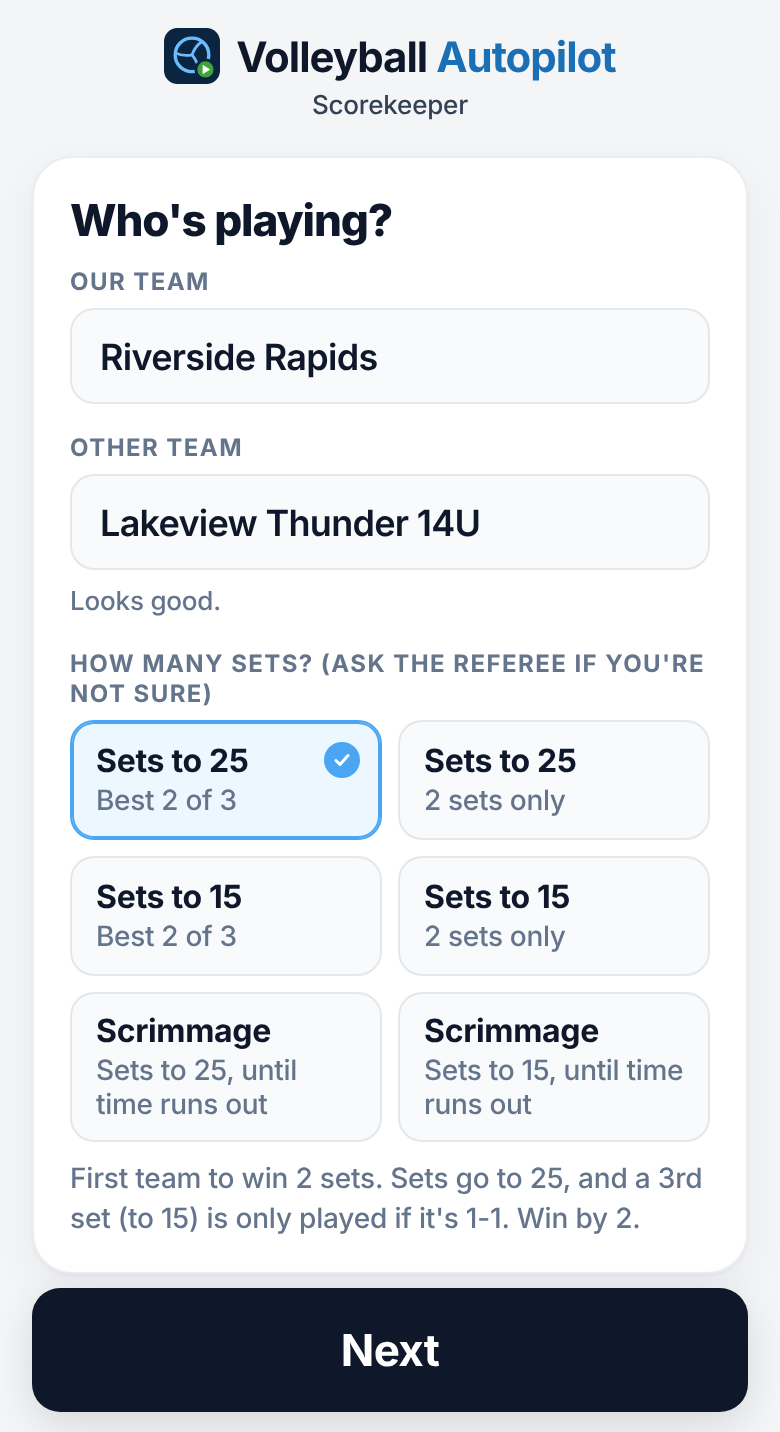
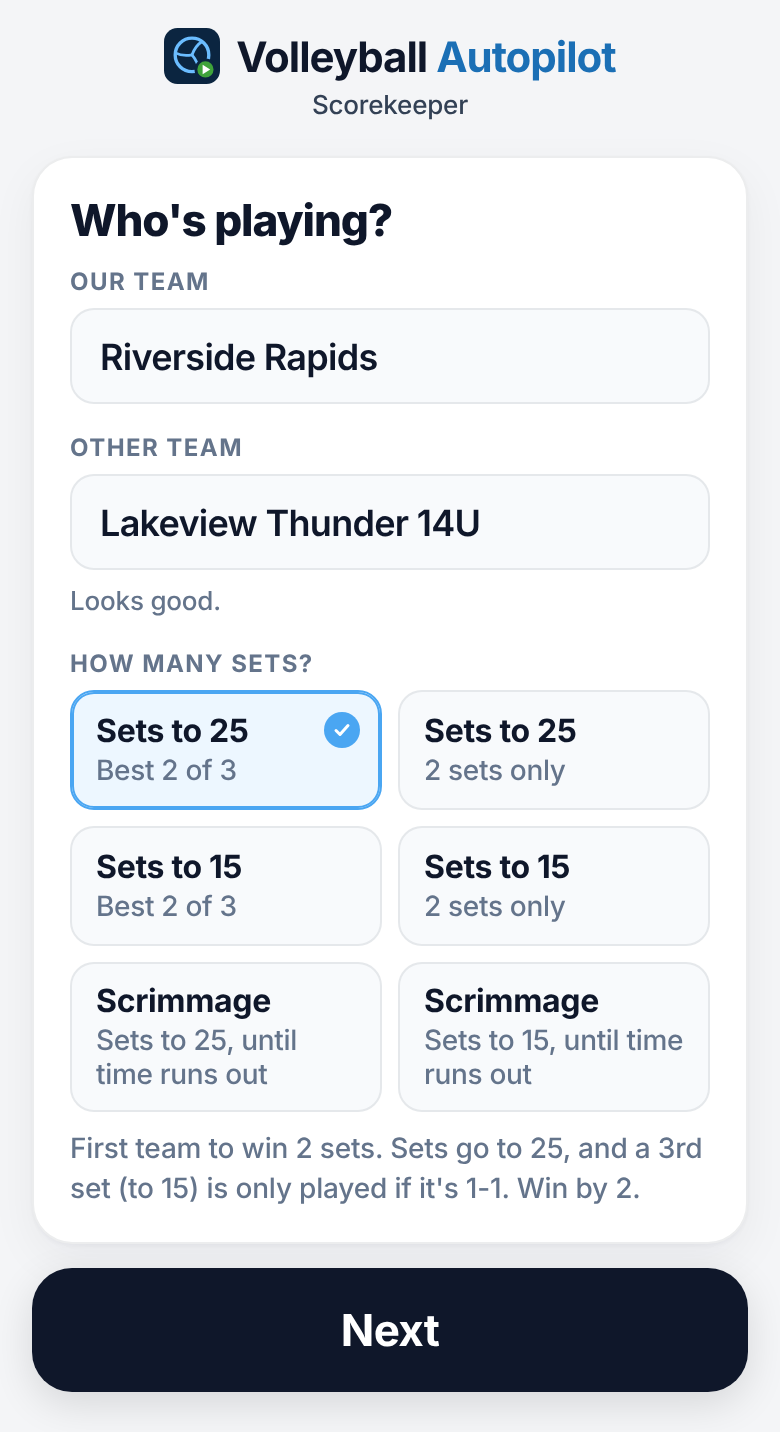
README: current screenshots + sideways view; Time-out as tall as the team buttons sideways
Claude-Session: https://claude.ai/code/session_012ag3eb2uDPURatWhE9fwNU

Changed region(s): [[0.0308, 0.4609, 0.9846, 1.0], [0.4, 0.4609, 0.4923, 0.5531], [0.4615, 0.5531, 0.4923, 0.5838]]

diff --git a/scorekeeper/volleyball-scorekeeper.html b/scorekeeper/volleyball-scorekeeper.html
@@ -319,7 +319,7 @@
 
     /* --- scoring --- */
     #stPlay:not([hidden]) {
-      display: grid; grid-template-columns: 1fr 1fr 132px; grid-template-rows: auto 1fr auto auto;
+      display: grid; grid-template-columns: 1fr 1fr 132px; grid-template-rows: auto auto auto auto;
       column-gap: 10px; row-gap: 8px; align-items: stretch;
     }
     #stPlay .topline { grid-row: 1; grid-column: 1 / -1; margin: 0; }
@@ -339,6 +339,7 @@
                            flex-direction: column; gap: 6px; font-size: 16px; text-align: center; }
     #stPlay .timeout-btn #timeoutLabel { flex-direction: column; gap: 6px; }
     #stPlay .timeout-btn.on .to-sub { font-size: 12px; line-height: 1.3; }
+    #stPlay:has(#timeUpBtn[hidden]) .timeout-btn { grid-row: 2 / 4; }   /* no Time's up button: same height as the team buttons */
     #timeUpBtn { grid-row: 3; grid-column: 3; margin: 0 !important; min-height: 0; padding: 8px; font-size: 14px; line-height: 1.25; }
     #playMore { grid-row: 4; grid-column: 1 / -1; margin-top: 8px; }
     #playMore .stack { display: grid; grid-template-columns: 1fr 1fr; gap: 10px; }

diff --git a/README.md b/README.md
@@ -207,6 +207,10 @@ to find every line that needs a personal value.
    &nbsp;
    <img src="docs/scorekeeper-live.png" width="260" alt="Scorekeeper during a set: recording status and match clock, one big button per team with the score and sets won, Time-out, Something went wrong? and the UNDO bar">
    </p>
+   Turn the phone sideways and the two team buttons sit side by side, with
+   Time-out on the right:
+
+   <img src="docs/scorekeeper-sideways.png" width="540" alt="Scorekeeper with the phone sideways: status, set and clock on one row, the two team buttons side by side and Time-out on the right">
 6. **Build and apply the scoreboard**: with the Fusion Composition clip
    selected and the Fusion page open, run `run-overlay.lua` from the
    Console.
